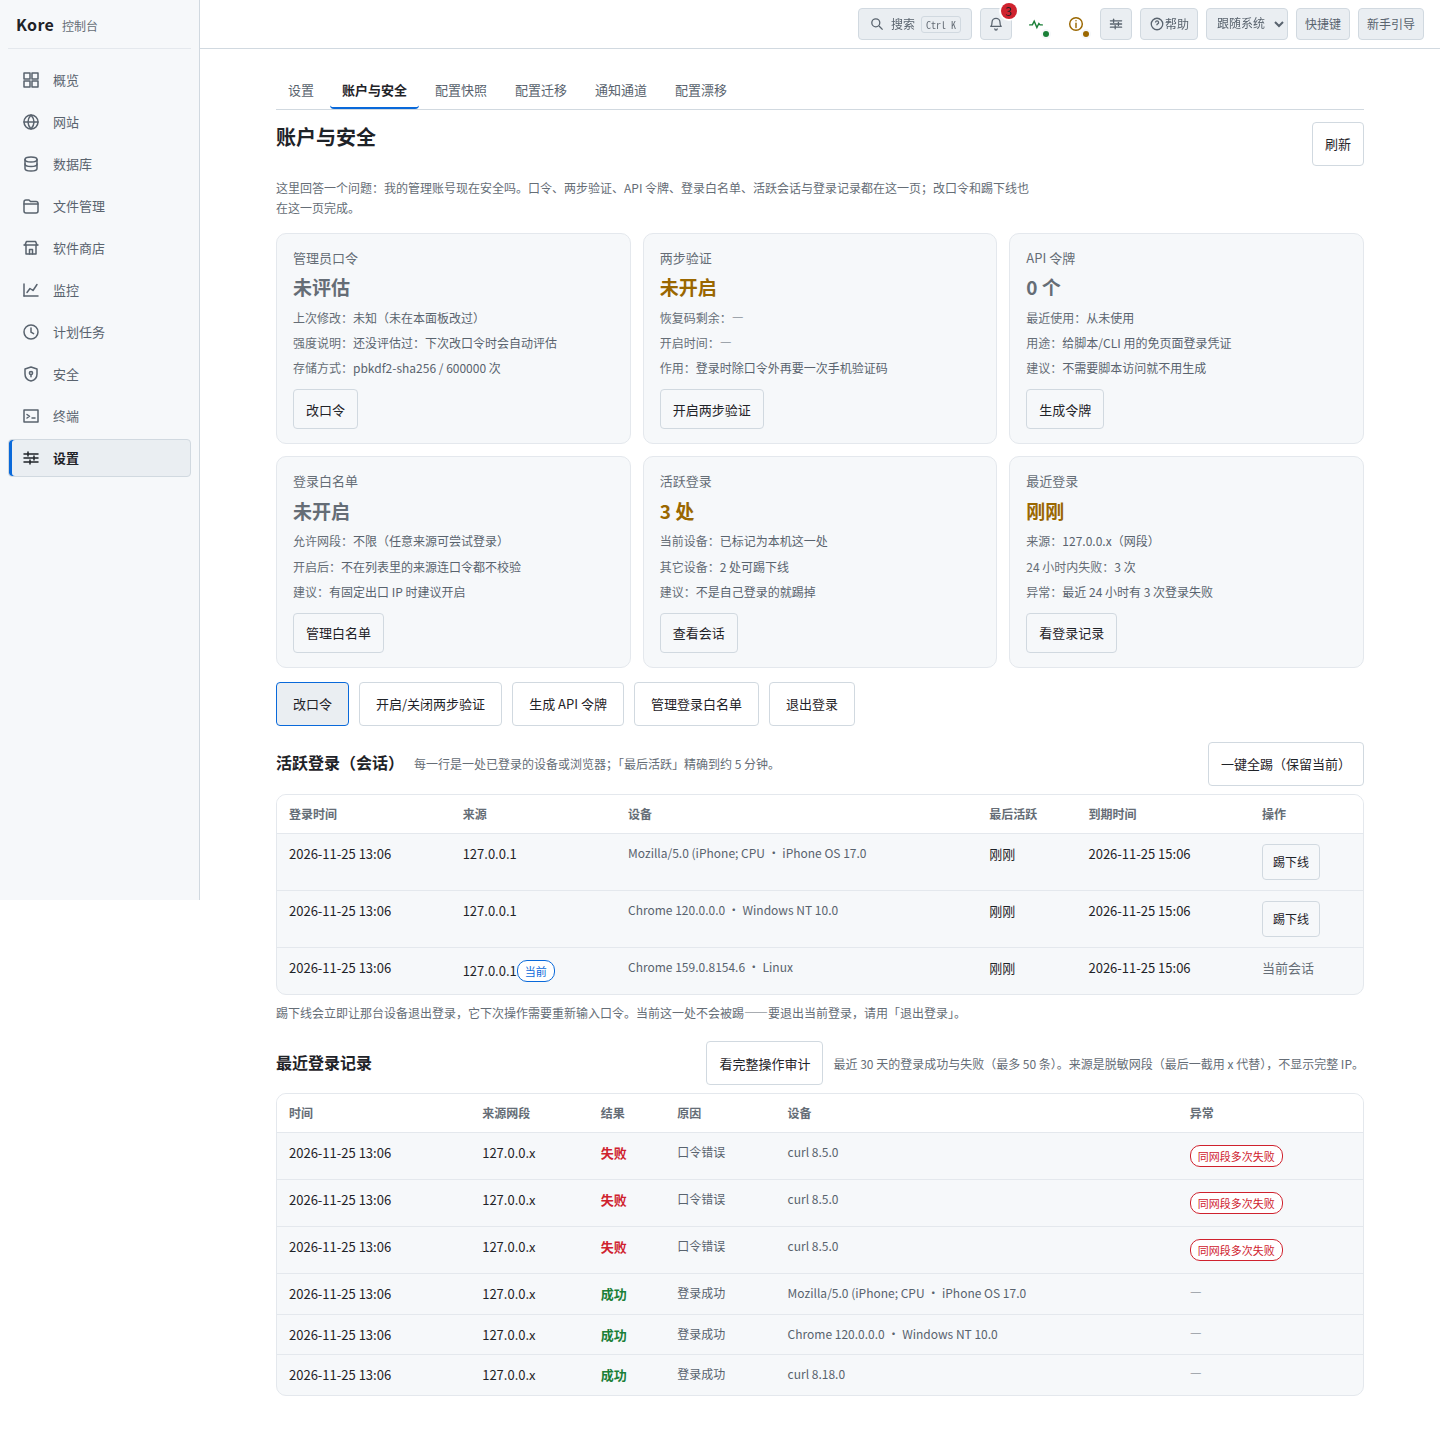
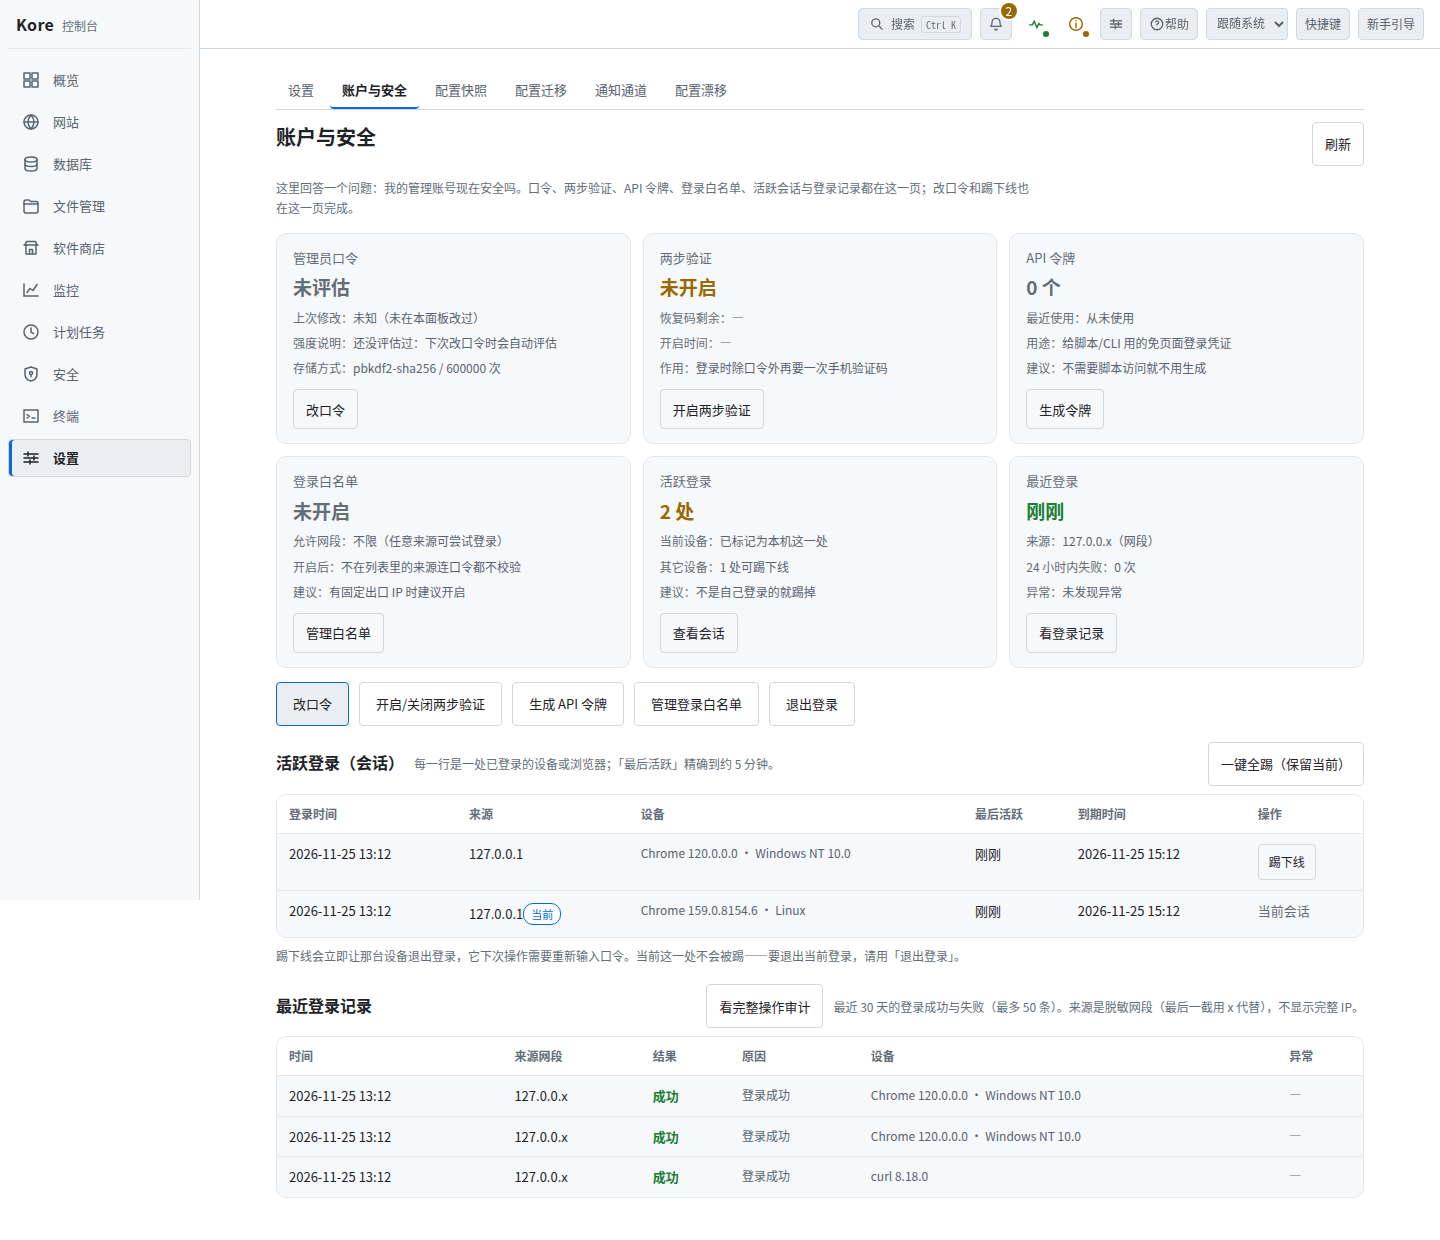
[agent:feat-user-center] fix(user-center): 无 body 的 DELETE 也带 CSRF 头（踢下线 401 修复）+ 截图刷新

diff --git a/web/user-center.js b/web/user-center.js
@@ -158,11 +158,16 @@
   }
   function request(url, method, body) {
     var headers = { 'Accept': 'application/json' };
-    var init = { method: method || 'GET', credentials: 'same-origin', cache: 'no-store', headers: headers };
-    if (body !== undefined) {
-      headers['Content-Type'] = 'application/json';
+    var verb = method || 'GET';
+    var init = { method: verb, credentials: 'same-origin', cache: 'no-store', headers: headers };
+    // 写请求必须带双提交头——**不看有没有 body**：DELETE（踢下线）同样要过 withCSRF，
+    // 只在带 body 时才加头会让「踢下线」一律 401 CSRF 校验失败。
+    if (verb !== 'GET' && verb !== 'HEAD') {
       var token = csrf();
       if (token) headers['X-Kore-CSRF'] = token;
+    }
+    if (body !== undefined) {
+      headers['Content-Type'] = 'application/json';
       init.body = JSON.stringify(body);
     }
     var ctrl = window.AbortController ? new AbortController() : null;

diff --git a/.agents/verify/user-center.md b/.agents/verify/user-center.md
@@ -37,7 +37,9 @@
 2. 快捷动作行：改口令（本页内联弹层，实时强度条 + 三次校验）、开启/关闭两步验证、生成令牌、管理白名单、退出登录（后四项经 `window.__koreSettingsTab='security' + KoreShell.navigate('settings/settings')` 跳到既有 security.js，不重复实现）。
 3. 会话表：登录时间 / 来源 / 设备（UA 摘要）/ 最后活跃 / 到期时间 / 操作；当前会话打「当前」标并禁止踢；非当前行「踢下线」；右上「一键全踢（保留当前）」。
 4. 登录记录表：时间 / 来源网段 / 结果 / 原因（人话：口令错误、两步验证码错误、来源网络不在允许列表…）/ 设备 / 异常标签。
-5. 空状态与错误态都带下一步按钮（G-33 A5）；零轮询（只在进入与点「刷新」时取数）；写过 CSRF 双提交。
+5. 空状态与错误态都带下一步按钮（G-33 A5）；零轮询（只在进入与点「刷新」时取数）；写请求一律带 CSRF 双提交。
+6. **真机点击验证抓到一个真 bug 并已修**：DELETE 请求没有 body，最初只在「有 body」时才加 `X-Kore-CSRF`
+   头 → 点「踢下线」一律 401 CSRF 校验失败。修复后点击实测：会话行 3 → 2、`DELETE /api/v1/security/sessions/{id} -> 200`。
 
 ## 4. 证据（命令 + 退出码）
 
@@ -62,6 +64,14 @@ cd kore && GOCACHE=<ws>/.gocache GOTMPDIR=/tmp/kt TMPDIR=/tmp/kt go test -timeou
   （全仓 16 包）全部 ok，0 个 --- FAIL                                              → exit=0
 bash scripts/docs-check.sh: 5 pass / 1 warn（SECURITY.md 行数，存量）/ 0 fail         → exit=0
 bash scripts/usability-check.sh：无 user-center 相关新增项（A5/A6/A7 均未命中本页）     → exit=1（存量为 waf/search 既有 FAIL，与本卡无关）
+
+# 隔离实例 + Playwright 真机点击（非 mock，同一实例同一份真实数据）
+[INFO] 点击“踢下线”：行 3 -> 2；DELETE /api/v1/security/sessions/{id} -> 200
+[OK] 踢下线生效
+[OK] 改口令弹层已打开，强度提示：新口令强度：很强
+[OK] Esc 关闭弹层
+  （安全端点请求：GET /security/overview 200 · GET /security/sessions 200 ·
+    GET /security/login-records 200 · DELETE /security/sessions/{id} 200）        → exit=0
 bash scripts/secret-check.sh: 0 FAIL / 22 处匹配（占位写法均合规）                     → exit=0
 ```
 
